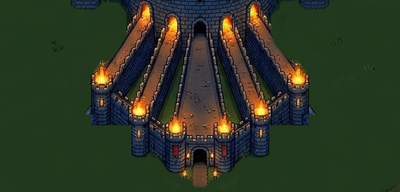
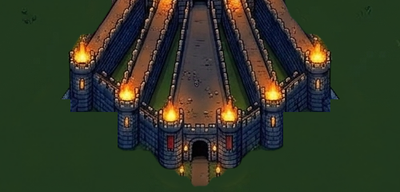
Arène : créneaux, ciel étoilé, fleurs et cailloux ; château plus grand devant la queue, griffes agrandies ; garde-fou contre la sortie du monde (écran gris)
Claude-Session: https://claude.ai/code/session_01R6DULziKfSGZcEEcyC3Cch

diff --git a/Outils/generer_village.py b/Outils/generer_village.py
@@ -37,7 +37,7 @@ def chemin(g, x0, x1, y0, y1):
 
 # --- Emprises des objets (même table que Scripts/exterieur.gd::OBJETS_G) : sert à retirer/fermer proprement ---
 EMPRISES = {'A': (3, 3), 'a': (3, 3), 'P': (3, 3), 'r': (1, 1), 'W': (2, 2), 'e': (2, 1), 'j': (1, 2), 'b': (1, 1), 'B': (1, 1), 'o': (1, 1),
-            'x': (1, 1), 'n': (1, 1), 'u': (1, 1), 'z': (1, 1), 'C': (5, 2), 'D': (5, 2), 'V': (3, 1), 'X': (3, 1), 'E': (3, 2), 'Q': (3, 3), '~': (1, 1),
+            'x': (1, 1), 'n': (1, 1), 'u': (1, 1), 'z': (1, 1), 'C': (6, 2), 'D': (6, 2), 'V': (3, 1), 'X': (3, 1), 'E': (3, 2), 'Q': (3, 3), '~': (1, 1),
             'f': (1, 1), 'g': (1, 1), 'w': (1, 1)}
 NON_BLOQUANTS = set('fgw=')          # fleurs et pont : on marche dessus
 def emprise(c):
@@ -386,14 +386,14 @@ def parvis_commun():
 #         avec chacune une PIERRE posée devant (V : aile gauche, X : aile droite ; 3x1). On monte vers une pierre (rangée 6) avec le symbole de l'aile correspondante : il se dépose dans sa fenêtre.
 parvis = parvis_commun()
 put(parvis, 'A', (11, 2))                          # l'arbre qui bouche le chemin du milieu (avec ceux de la rangée du haut) ; il s'écarte à la fin
-put(parvis, 'C', (6, 1)); put(parvis, 'D', (14, 1))
+put(parvis, 'C', (5, 1)); put(parvis, 'D', (14, 1))
 put(parvis, 'V', (7, 5)); put(parvis, 'X', (15, 5))
 passages_parvis = ["%d 6 $stele_g" % x for x in (7, 8, 9)] + ["%d 6 $stele_d" % x for x in (15, 16, 17)]
 
 # APRÈS (drapeau corps_revele) : les arbres du milieu se sont écartés (ouvrir() N retire ceux qui barrent les colonnes 11-13) : un chemin de 3 cases monte vers le nord (écran « Queue ») ;
 #         les arbres des côtés restent et cachent la jambe des griffes ; les pierres brillent.
 parvis_revele = parvis_commun()
-put(parvis_revele, 'C', (6, 1)); put(parvis_revele, 'D', (14, 1))
+put(parvis_revele, 'C', (5, 1)); put(parvis_revele, 'D', (14, 1))
 put(parvis_revele, 'V', (7, 5)); put(parvis_revele, 'X', (15, 5))
 passages_parvis_revele = list(passages_parvis)
 

diff --git a/Outils/fabriquer_ciel.py b/Outils/fabriquer_ciel.py
@@ -1,0 +1,41 @@
+#!/usr/bin/env python3
+"""CIEL ÉTOILÉ et CRÉNEAUX de l'arène du donjon final (Room.ciel_etoile). Écrit dans Assets/Gemini/tuiles/ :
+  ciel_nuit_a/b/c.png  tuiles 16x16 de ciel du soir (bleu nuit, quelques étoiles) ;
+  mur_creneaux.png     tuile de mur du haut dont les 8 px du haut alternent merlon / vide (le vide laisse voir le ciel).
+À lancer APRÈS traiter_pack_donjon.py (il lit mur_face_haut.png), AVANT generer_corps.py."""
+import os
+import numpy as np
+from PIL import Image
+
+SORTIE = os.path.join(os.path.dirname(__file__), "..", "Assets", "Gemini", "tuiles")
+rng = np.random.default_rng(21)
+
+
+def ciel(nb_etoiles, grosse):
+    a = np.zeros((16, 16, 3), float) + np.array((11, 16, 42), float)
+    a += rng.normal(0, 2.2, (16, 16, 1))
+    for _ in range(nb_etoiles):
+        x, y = rng.integers(1, 15, 2)
+        a[y, x] = (200, 210, 255)
+    if grosse:
+        x, y = rng.integers(3, 13, 2)
+        a[y, x] = (255, 255, 255)
+        for dx, dy in ((1, 0), (-1, 0), (0, 1), (0, -1)):
+            a[y + dy, x + dx] = (120, 135, 200)
+    return Image.fromarray(np.clip(a, 0, 255).astype(np.uint8)).convert("RGBA")
+
+
+for nom, n, g in (("ciel_nuit_a", 1, False), ("ciel_nuit_b", 2, False), ("ciel_nuit_c", 1, True)):
+    ciel(n, g).save(os.path.join(SORTIE, nom + ".png"))
+
+mur = Image.open(os.path.join(SORTIE, "mur_face_haut.png")).convert("RGBA")
+px = mur.load()
+for y in range(8):                 # le haut : un merlon (8 px) puis un vide (8 px)
+    for x in range(16):
+        if x >= 8:
+            px[x, y] = (0, 0, 0, 0)
+        elif y < 2:                # dessus du merlon éclairé
+            r, g, b, a = px[x, y]
+            px[x, y] = (min(255, r + 38), min(255, g + 38), min(255, b + 44), a)
+mur.save(os.path.join(SORTIE, "mur_creneaux.png"))
+print("ciel étoilé et créneaux écrits")

diff --git a/Outils/traiter_facade_queue.py b/Outils/traiter_facade_queue.py
@@ -3,7 +3,7 @@
 le donjon rond, l'éventail des 5 couloirs, l'arc de tours à flammes et la porte, avec leurs vraies formes (rien de droit).
 Les GRIFFES sont retirées de ce morceau : ce sont les stèles du Parvis (écran au sud), elles y sont déjà.
 À lancer APRÈS traiter_coq_cinematique.py ET traiter_facades.py (il écrase v_facade_queue.png), AVANT generer_village.py.
-Cadrage : image 1408x768 -> morceau (404, 432)-(1004, 720) réduit à 400x192 (échelle 2/3) ; la porte tombe en rangée 11, colonnes 11-13."""
+Cadrage : image 1408x768 -> morceau (454, 480)-(954, 720) réduit à 400x192 (échelle 0,8) ; la porte tombe en rangée 11, colonnes 11-13."""
 import os
 from PIL import Image, ImageDraw
 
@@ -24,9 +24,9 @@ for (x0, y0, x1, y1), miroir in ((ZONE_G, False), (ZONE_D, True)):
     d.polygon([(x0 + x, y0 + y) for x, y in poly], fill=0)     # les griffes disparaissent (le sol réapparaît)
 corps.putalpha(alpha)
 sol.alpha_composite(corps)
-morceau = sol.crop((404, 432, 1004, 720)).resize((400, 192), Image.LANCZOS)
+morceau = sol.crop((454, 480, 954, 720)).resize((400, 192), Image.LANCZOS)   # échelle 0,8 (le château doit PESER devant le joueur)
 morceau.save(SORTIE)
 # la bande de SOL sous la façade (rangées 12-13, colonnes 1-24) : même image, pour que le dessous ne soit pas de l'herbe de village
-bande = sol.crop((428, 720, 1004, 768)).resize((384, 32), Image.LANCZOS)
+bande = sol.crop((474, 720, 954, 760)).resize((384, 32), Image.LANCZOS)
 bande.save(SORTIE.replace("v_facade_queue.png", "v_facade_queue_sol.png"))
 print("v_facade_queue.png écrit (morceau de l'image du coq)")

diff --git a/Outils/traiter_griffes.py b/Outils/traiter_griffes.py
@@ -99,7 +99,7 @@ def prolonger(img):
 
 
 if __name__ == "__main__":
-    largeur = int(sys.argv[1]) if len(sys.argv) > 1 else 76
+    largeur = int(sys.argv[1]) if len(sys.argv) > 1 else 96
     for cote, zone, miroir in (("g", ZONE_G, False), ("d", ZONE_D, True)):
         petit = reduire(decouper(zone, miroir), largeur)
         petit.save(os.path.join(SORTIE, "v_griffe_%s.png" % cote))

diff --git a/Outils/generer_corps.py b/Outils/generer_corps.py
@@ -92,6 +92,7 @@ cote = "corps"
 [node name="Arene" parent="." instance=ExtResource("2")]
 teinte = Color(0.9, 0.95, 1.1, 1)
 ciel_ouvert = true
+ciel_etoile = true
 layout = %s
 
 [node name="Couloir" parent="." instance=ExtResource("2")]

diff --git a/CLAUDE.md b/CLAUDE.md
@@ -830,6 +830,11 @@
   (3) `generer_corps.py` : ARÈNE `ciel_ouvert` + teinte crépuscule froide, herbe qui déborde sur le chemin de pierre par plaques (plus de « tapis » régulier) ; VESTIBULE refait en PEIGNE (5 couloirs de terre droits - 1 grand au milieu - débouchant sur une barre commune devant la porte), `ciel_ouvert`, flammes au bout des couloirs extérieurs, 2 coqs de pierre. Sols : variantes de terre/herbe plus variées (`fabriquer_sol_corps.py`).
   Idées si encore insuffisant : murs de l'arène en créneaux (parapet) au lieu de briques pleines, étoiles/ciel visible derrière les murs, fleurs et rochers sur l'herbe, brèche dans le mur laissant voir le ciel.
 
+- 2026-11-14 : retours : « écran gris quand on revient en arrière ; le château devrait être un peu plus grand devant ; murs de l'arène en créneaux, ciel étoilé au-dessus des murs, fleurs et rochers sur l'herbe ».
+  FAIT (tests auto OK, rendu réel vérifié pour l'arène et la queue) : (1) FAÇADE de la queue à l'échelle 0,8 (crop (454,480)-(954,720)) et GRIFFES du Parvis plus grandes (96 px, emprise 6x2, `C` en (5,1), `D` en (14,1)) ; (2) ARÈNE : export `ciel_etoile` (room.gd) = murs du haut en CRÉNEAUX (`mur_creneaux`), CIEL ÉTOILÉ (`ciel_nuit_a/b/c`, étoiles qui scintillent via ciel_ouvert.gd) au-delà des remparts à la place des briques, fleurs et cailloux dans l'herbe (décor sans collision) ; `Outils/fabriquer_ciel.py` (APRÈS traiter_pack_donjon.py, AVANT generer_corps.py).
+  ÉCRAN GRIS : NON REPRODUIT (le retour corps -> village et Queue -> Parvis marchent en simulation). Hypothèse : le joueur sortait du monde (aucun écran à cette case = gris) -> GARDE-FOU ajouté dans `world.gd::_process` (`_ecran_existe_en` : on retient le joueur au bord de sa salle) + `content_scale_mode` remis à VIEWPORT au démarrage de chaque monde. À redemander à l'utilisateur : où exactement (quel écran, quelle direction) si ça persiste.
+  Piste à vérifier : une capture du Parvis juste après un téléport depuis la Queue était presque NOIRE (non expliqué, peut-être le rendu logiciel/fondu) ; outils de test : `Tests/capturer_ecrans|arrivee|marche|changement.tscn`.
+
 ## PROCHAINE ÉTAPE (Sonnet) : tester 14b dans Godot, puis harmoniser le reste du village
 - Temple, corps du coq, intérieurs, clôtures, puits, tonneau, bannière encore dans l'ancien style (maisons FAITES en 14e) ; héros à harmoniser avec les habitants ; animation « au repos » des habitants (4 images dispo) ; secrets (bois/cascade) ; route du sud à ouvrir à l'épilogue.
 - Ensuite : stèle à refaire, rééquilibrage D5/énigmes, mode 7, contrôles tactiles.
